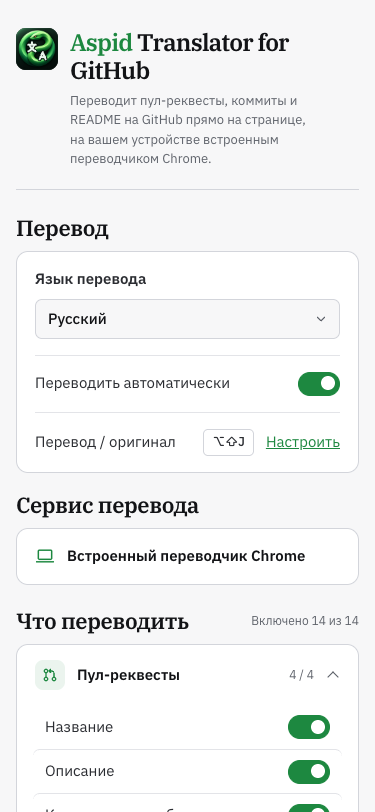
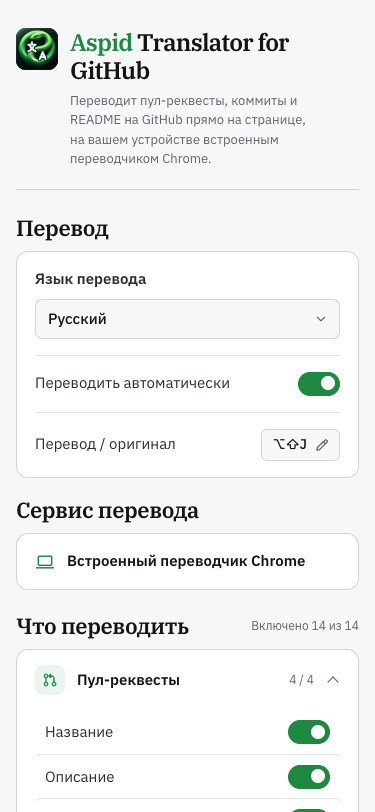
fix(options): combine shortcut display and edit action

diff --git a/static/options.html b/static/options.html
@@ -44,9 +44,13 @@
     .general, section { display: grid; min-width: 0; gap: 14px; }
     .general { gap: 26px; }
     .shortcut { flex-wrap: wrap; }
-    .shortcut-actions { display: flex; align-items: center; gap: 12px; }
-    .shortcut-actions kbd { padding: 2px 8px; border: 1px solid var(--line); border-radius: 5px; font: 500 13px/1.6 var(--sans); }
-    .shortcut-actions a { color: var(--accent); }
+    .shortcut-edit {
+      display: inline-flex; align-items: center; gap: 8px; min-height: 32px; padding: 4px 10px;
+      border: 1px solid var(--line); border-radius: 6px; background: var(--bg); color: var(--strong);
+      font: 500 14px/1.4 var(--sans); text-decoration: none;
+    }
+    .shortcut-edit svg { flex: none; color: var(--muted); }
+    .shortcut-edit:hover { border-color: var(--accent); }
     .section-head { display: flex; flex-wrap: wrap; align-items: center; justify-content: space-between; gap: 4px 16px; }
     h2 { font: 600 22px/1.3 var(--serif); color: var(--strong); letter-spacing: -.02em; }
     .group-name { flex: 1; font-size: 15px; font-weight: 600; color: var(--strong); }
@@ -160,7 +164,10 @@
           <div class="divider"></div>
           <div class="row shortcut">
             <span data-i18n="shortcutLabel"></span>
-            <span class="shortcut-actions"><kbd dir="ltr" id="shortcut"></kbd><a id="edit-shortcut" href="chrome://extensions/shortcuts" data-i18n="shortcutEdit"></a></span>
+            <a class="shortcut-edit" id="edit-shortcut" href="chrome://extensions/shortcuts">
+              <span id="shortcut" dir="ltr"></span>
+              <svg width="14" height="14" viewBox="0 0 16 16" fill="none" stroke="currentColor" stroke-width="1.4" stroke-linejoin="round" aria-hidden="true"><path d="m2 14 3.5-.8 8.2-8.2a1.7 1.7 0 0 0-2.4-2.4l-8.5 8zM9.7 4.3l2.4 2.4"/></svg>
+            </a>
           </div>
         </div>
       </section>

diff --git a/src/options.js b/src/options.js
@@ -101,6 +101,9 @@ async function showShortcut() {
   const shortcut = commands.find(command => command.name === 'toggle-translation')?.shortcut;
   $('shortcut').textContent = shortcut || t('shortcutUnassigned');
   $('shortcut').dir = shortcut ? 'ltr' : 'auto';
+  const edit = $('edit-shortcut');
+  edit.title = t('shortcutEdit');
+  edit.setAttribute('aria-label', [t('shortcutLabel'), $('shortcut').textContent, edit.title].join(', '));
 }
 
 $('edit-shortcut').addEventListener('click', event => {
